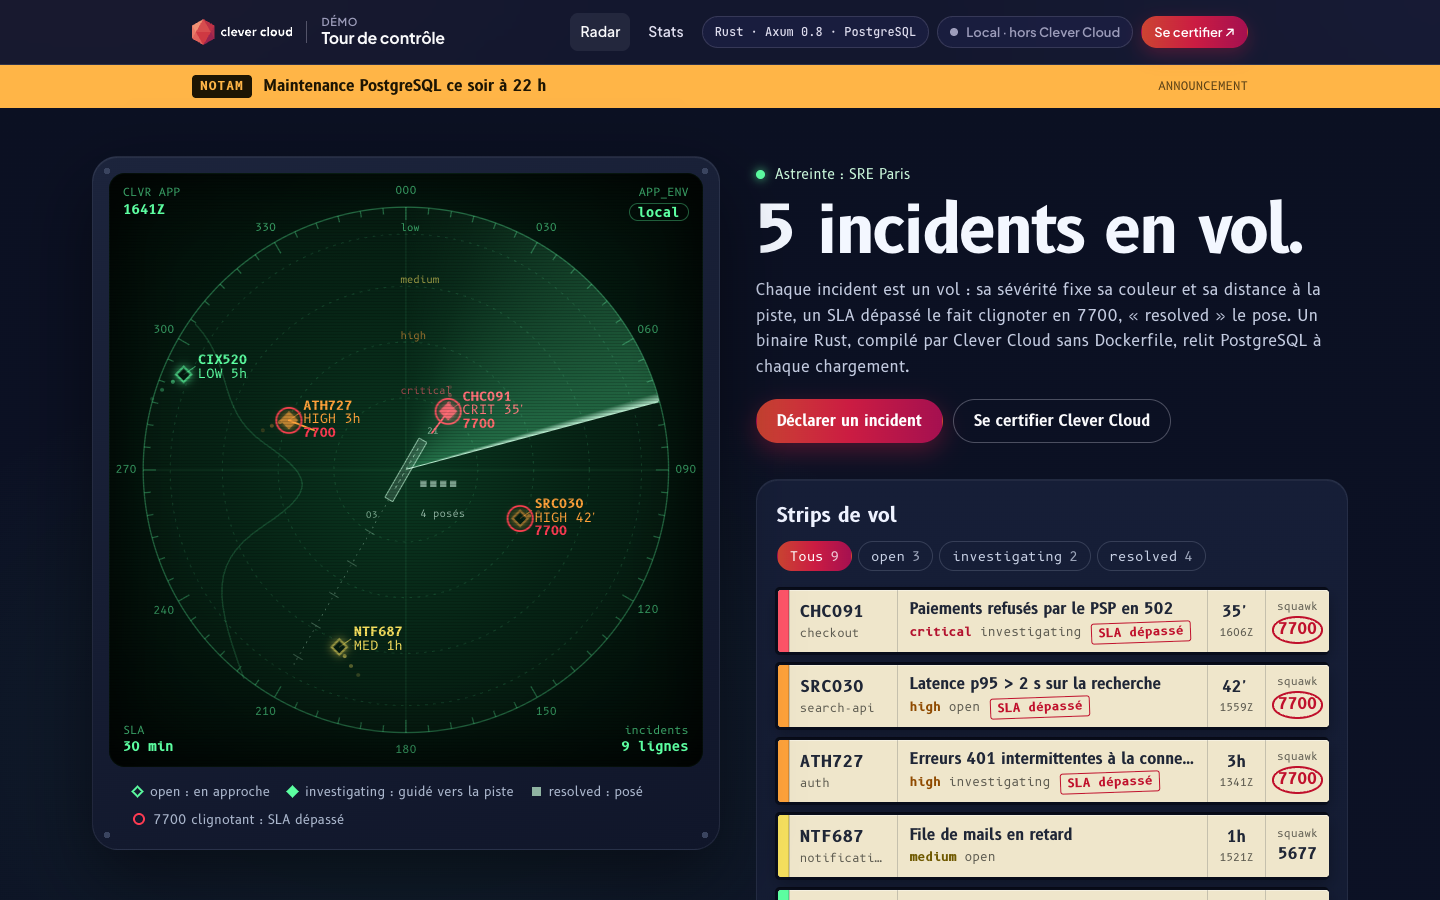
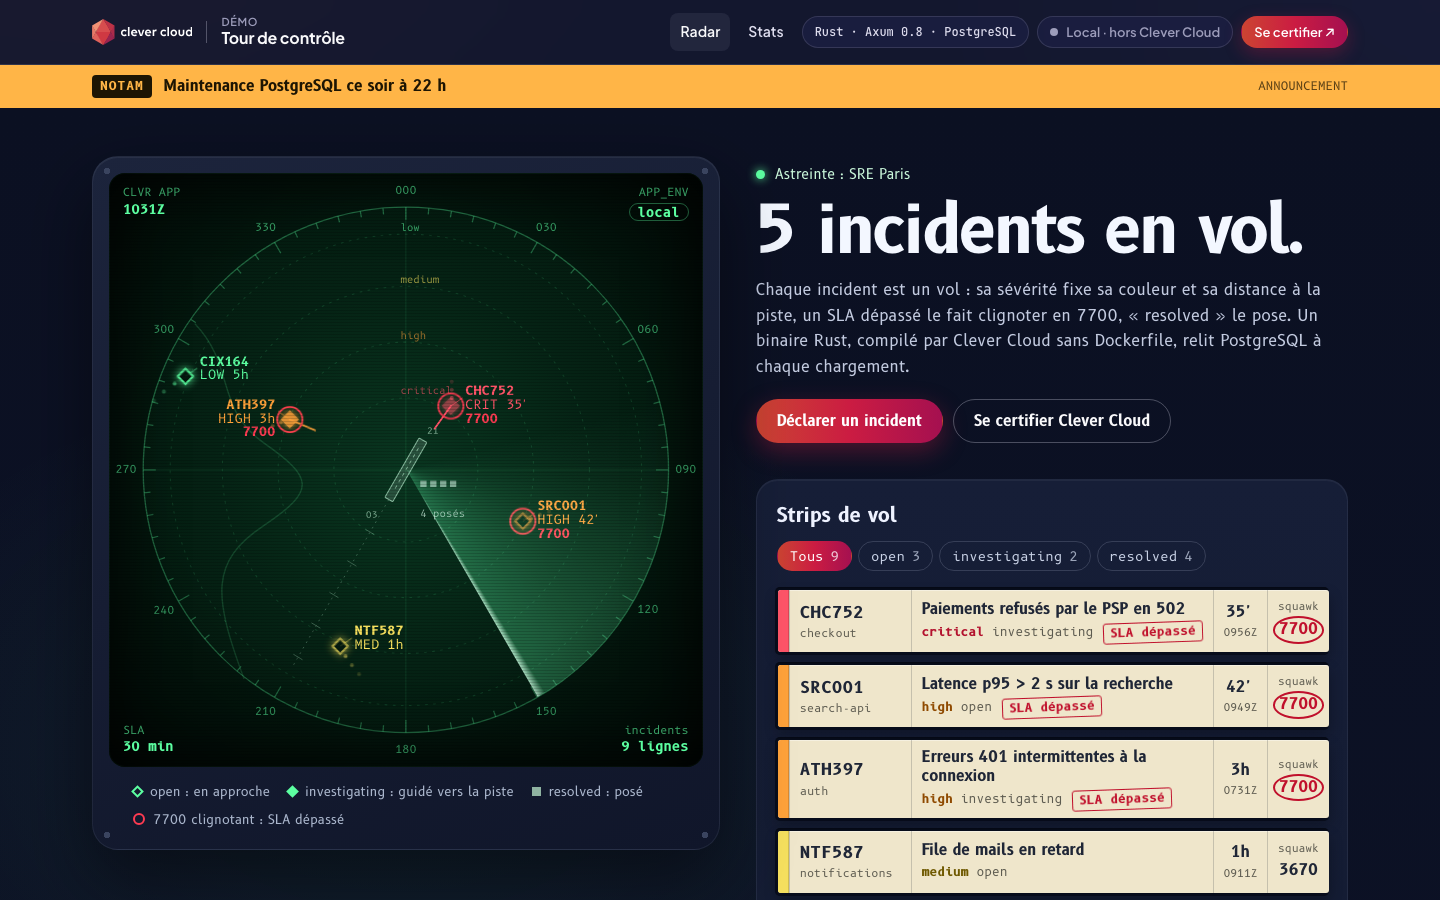
Visual review fixes and a 10-second animated tour

diff --git a/static/tower.css b/static/tower.css
@@ -48,6 +48,8 @@ main { flex: 1; }
 /* Lien certification du pied de page : orange uni (le texte dégradé du kit passe sous 4,5:1) */
 .cc-footer li a.is-cert { color: var(--cc-orange); background: none; -webkit-background-clip: initial; background-clip: initial; -webkit-text-fill-color: currentColor; }
 .cc-footer { margin-top: 0; }
+/* En-tête, NOTAM et pied de page alignés sur la largeur de la salle de contrôle (1320px), pas sur les 1120px du kit */
+.cc-topbar > .cc-container, .notam > .cc-container, .cc-footer > .cc-container { max-width: 1320px; }
 
 /* ---------- NOTAM (ANNOUNCEMENT) ---------- */
 .notam { background: var(--amber); color: #1d1503; font-family: var(--t-font); }
@@ -68,10 +70,13 @@ main { flex: 1; }
 .tower__head { grid-area: head; display: grid; gap: 20px; padding: 6px 0 4px; }
 .tower__team { display: inline-flex; align-items: center; gap: 10px; font-size: 14px; color: var(--phos-text); }
 .tower__team::before { content: ""; width: 9px; height: 9px; border-radius: 50%; background: var(--phos); box-shadow: 0 0 10px var(--phos); }
-.tower__title { margin: 10px 0 0; font-family: var(--t-font); font-weight: 700; font-size: clamp(40px, 4.6vw, 66px); line-height: 1; letter-spacing: -0.03em; color: #f3f7ff; }
+.tower__title { text-wrap: balance; margin: 10px 0 0; font-family: var(--t-font); font-weight: 700; font-size: clamp(40px, 4.6vw, 66px); line-height: 1; letter-spacing: -0.03em; color: #f3f7ff; }
 .tower__title--page { font-size: clamp(32px, 4.4vw, 56px); margin-top: 6px; }
 .tower__lead { margin-top: 14px; max-width: 68ch; font-size: 16px; line-height: 1.6; color: #c3cbe0; }
+.tower__lead .cc-kbd { white-space: nowrap; }
 .tower__cta { display: flex; flex-wrap: wrap; gap: 10px; }
+.lost { display: flex; flex-direction: column; align-items: flex-start; justify-content: center; gap: 4px; min-height: 46vh; }
+.lost .tower__cta { margin-top: 22px; }
 .back { display: inline-flex; gap: 8px; font-size: 14px; font-weight: 700; color: #9fb0cf; }
 .back::before { content: "←"; }
 .back:hover { color: var(--phos); }
@@ -184,7 +189,7 @@ main { flex: 1; }
 .strips { list-style: none; margin: 0; padding: 0; display: grid; gap: 7px; }
 .strips li { padding: 3px 0 3px 3px; border-radius: 5px; background: #0b1124; box-shadow: inset 0 2px 4px rgba(0, 0, 0, 0.5); }
 .strip {
-  display: grid; grid-template-columns: 11px 108px minmax(0, 1fr) 58px 64px; grid-template-areas: "band call main time sq";
+  display: grid; grid-template-columns: 11px 122px minmax(0, 1fr) 54px 62px; grid-template-areas: "band call main time sq";
   min-height: 62px; border-radius: 3px; background: var(--paper); color: var(--ink); font-family: var(--t-mono);
   box-shadow: 0 1px 0 rgba(255, 255, 255, 0.4) inset, 0 6px 14px rgba(0, 0, 0, 0.3);
   transition: transform 0.18s ease;
@@ -192,11 +197,12 @@ main { flex: 1; }
 .strip:hover { transform: translateX(-6px); }
 .strip > * + * { border-left: 1px solid rgba(31, 38, 54, 0.2); }
 .strip__band { grid-area: band; border-radius: 3px 0 0 3px; background: var(--c); box-shadow: inset -1px 0 0 rgba(0, 0, 0, 0.15); }
-.strip__call { grid-area: call; display: flex; flex-direction: column; justify-content: center; padding: 8px 10px; min-width: 0; }
+.strip__call { grid-area: call; display: flex; flex-direction: column; justify-content: center; padding: 8px 8px 8px 10px; min-width: 0; }
 .strip__call b { font-size: 16px; letter-spacing: 0.02em; }
-.strip__call small { font-size: 11.5px; color: var(--ink-2); overflow: hidden; text-overflow: ellipsis; white-space: nowrap; }
-.strip__main { grid-area: main; display: flex; flex-direction: column; justify-content: center; gap: 3px; padding: 8px 12px; min-width: 0; }
-.strip__title { font-family: var(--t-font); font-weight: 700; font-size: 15px; line-height: 1.25; overflow: hidden; text-overflow: ellipsis; white-space: nowrap; }
+.strip__call small { font-size: 11px; color: var(--ink-2); overflow: hidden; text-overflow: ellipsis; white-space: nowrap; }
+.strip__main { grid-area: main; display: flex; flex-direction: column; justify-content: center; gap: 3px; padding: 8px 8px 8px 10px; min-width: 0; }
+/* Titre sur deux lignes au plus : un strip ne coupe pas « connexion » en « conne… » */
+.strip__title { font-family: var(--t-font); font-weight: 700; font-size: 15px; line-height: 1.25; overflow: hidden; display: -webkit-box; -webkit-line-clamp: 2; -webkit-box-orient: vertical; overflow-wrap: anywhere; }
 .strip__state { font-size: 12px; color: var(--ink-2); }
 .strip__sev { color: var(--ci); }
 .strip__sla { display: inline-block; margin-left: 2px; padding: 0 6px; border: 1.5px solid var(--alarm-ink); border-radius: 3px; color: var(--alarm-ink); font-weight: 700; transform: rotate(-2deg); }
@@ -261,7 +267,7 @@ main { flex: 1; }
 .licence__card::before { content: ""; position: absolute; inset: 10px; border-radius: 12px; border: 1px solid rgba(19, 32, 61, 0.18); pointer-events: none; }
 .licence__seal .cc-cert__badge { width: clamp(140px, 17vw, 200px); height: auto; transform: rotate(-8deg); filter: drop-shadow(0 14px 28px rgba(19, 32, 61, 0.35)); }
 .licence__kind { font-size: 13.5px; color: #4b5877; }
-.licence h2 { margin: 8px 0 0; font-size: clamp(26px, 3.2vw, 40px); font-weight: 700; line-height: 1.1; letter-spacing: -0.02em; color: #0f1a33; }
+.licence h2 { text-wrap: balance; margin: 8px 0 0; font-size: clamp(26px, 3.2vw, 40px); font-weight: 700; line-height: 1.1; letter-spacing: -0.02em; color: #0f1a33; }
 .licence__lead { margin: 12px 0 20px; max-width: 60ch; font-size: 16px; line-height: 1.6; color: #34405c; }
 .licence__ratings { list-style: none; margin: 0 0 22px; padding: 0; display: grid; grid-template-columns: repeat(2, minmax(0, 1fr)); gap: 12px; }
 .licence__ratings a { display: block; height: 100%; padding: 12px 14px; border-radius: 10px; border: 1px solid rgba(19, 32, 61, 0.18); background: rgba(255, 255, 255, 0.6); transition: border-color 0.15s ease; }
@@ -275,7 +281,7 @@ main { flex: 1; }
 .licence-mini { display: grid; grid-template-columns: 68px minmax(0, 1fr); gap: 14px; align-items: center; margin-top: 18px; padding: 16px; border-radius: 14px; color: var(--licence-ink); font-family: var(--t-font); background: repeating-radial-gradient(circle at 0% 120%, rgba(40, 70, 150, 0.07) 0 1px, transparent 1px 8px), var(--licence); }
 .licence-mini .cc-cert__badge { width: 68px; height: 68px; transform: rotate(-8deg); }
 .licence-mini small { display: block; font: 400 11.5px var(--t-mono); color: #6a7590; }
-.licence-mini b { display: block; margin-top: 2px; font-size: 15px; line-height: 1.3; color: #0f1a33; }
+.licence-mini b { text-wrap: balance; display: block; margin-top: 2px; font-size: 15px; line-height: 1.3; color: #0f1a33; }
 .licence-mini b + span { display: block; margin-top: 4px; font-size: 13px; color: #4b5877; }
 .licence-mini:hover b { color: #a51050; }
 
@@ -293,7 +299,7 @@ main { flex: 1; }
 .fstrip__call small { display: block; margin-top: 4px; font-size: 13px; color: var(--ink-2); overflow-wrap: anywhere; }
 .fstrip__main { grid-area: main; padding: 20px 24px; min-width: 0; }
 .fstrip__state { font-size: 13px; color: var(--ink-2); }
-.fstrip h1 { margin: 8px 0 10px; font-family: var(--t-font); font-size: clamp(24px, 3.2vw, 38px); font-weight: 700; line-height: 1.12; letter-spacing: -0.015em; overflow-wrap: anywhere; }
+.fstrip h1 { text-wrap: balance; margin: 8px 0 10px; font-family: var(--t-font); font-size: clamp(24px, 3.2vw, 38px); font-weight: 700; line-height: 1.12; letter-spacing: -0.015em; overflow-wrap: anywhere; }
 .fstrip__desc { max-width: 66ch; font-family: var(--t-font); font-size: 16px; line-height: 1.6; color: #3a4052; white-space: pre-wrap; overflow-wrap: anywhere; }
 .fstrip__desc.is-empty { color: var(--ink-2); font-style: italic; }
 .fstrip__cells { grid-area: cells; margin: 0; display: grid; grid-template-rows: 1fr 1fr; }
@@ -361,7 +367,9 @@ main { flex: 1; }
 }
 .blank textarea { resize: vertical; min-height: 110px; border: 1px solid rgba(31, 38, 54, 0.3); border-radius: 4px; padding: 10px; background: rgba(255, 255, 255, 0.35); line-height: 1.5; }
 .blank input::placeholder, .blank textarea::placeholder { color: #8a8574; }
-.blank input:focus-visible, .blank textarea:focus-visible { outline: 2px solid #a51050; outline-offset: 2px; }
+/* Champ actif : la ligne pointillée devient un trait plein, sans cadre rouge qui se lirait comme une erreur */
+.blank input[type="text"]:focus-visible { outline: none; border-bottom: 2px solid var(--ink); background: rgba(255, 255, 255, 0.4); }
+.blank textarea:focus-visible { outline: 2px solid var(--ink); outline-offset: 1px; }
 .blank__sev { margin: 0; padding: 0; border: 0; min-width: 0; }
 .blank__sev legend { padding: 0; margin-bottom: 8px; }
 .blank__sevopts { position: relative; display: grid; grid-template-columns: repeat(4, minmax(0, 1fr)); gap: 8px; }
@@ -376,7 +384,7 @@ main { flex: 1; }
 .blank__actions .cc-btn:not(.cc-btn--gradient) { color: var(--ink); border-color: rgba(31, 38, 54, 0.4); }
 
 /* ---------- Stats : bilan du trafic ---------- */
-.traffic { display: grid; grid-template-columns: repeat(2, minmax(0, 1fr)); gap: clamp(20px, 2.6vw, 36px); margin-top: clamp(20px, 3vw, 32px); }
+.traffic { display: grid; grid-template-columns: minmax(0, 1.25fr) minmax(0, 1fr); gap: clamp(20px, 2.6vw, 36px); margin-top: clamp(20px, 3vw, 32px); }
 .meter { padding: 20px 22px; border-radius: 18px; background: #050c16; border: 1px solid rgba(92, 255, 161, 0.2); }
 .meter h2 { font-size: 18px; font-weight: 700; color: var(--phos); }
 .meter ul { list-style: none; margin: 16px 0 0; padding: 0; display: grid; gap: 14px; }
@@ -416,6 +424,12 @@ main { flex: 1; }
   .tower__room .tower__lead { grid-area: lead; margin: 0; }
   .tower__cta { grid-area: cta; }
   .notam__inner code { display: none; }
+  /* En-tête sur deux rangs : le voyant d'environnement se réduit à un mot, « Se certifier » reste à droite */
+  .cc-topbar__nav .cc-pill--muted, .cc-topbar__nav .cc-pill--live { font-size: 0; gap: 0; }
+  .cc-topbar__nav .cc-pill--muted::after { content: "Local"; font-size: 13px; margin-left: 8px; }
+  .cc-topbar__nav .cc-pill--live::after { content: "Live"; font-size: 13px; margin-left: 8px; }
+  .cc-topbar__nav .cc-pill--gradient { margin-left: auto; }
+  .bay__filters a { padding-block: 9px; }
   .tower__lead { font-size: 15.5px; }
   .scope { padding: 10px; border-radius: 20px; }
   .scope__readouts { inset: 10px; font-size: 9.5px; }
@@ -432,16 +446,16 @@ main { flex: 1; }
   .bay { padding: 12px; }
   .strip { grid-template-columns: 9px minmax(0, 1fr) 50px 58px; grid-template-areas: "band call time sq" "band main main main"; }
   .strip__main { border-left: 0; border-top: 1px solid rgba(31, 38, 54, 0.2); }
-  .strip__title { white-space: normal; display: -webkit-box; -webkit-line-clamp: 2; -webkit-box-orient: vertical; }
   .fstrip { grid-template-columns: 10px minmax(0, 1fr); grid-template-areas: "band call" "band cells" "band main"; }
   .fstrip__cells { border-left: 0; border-top: 1px solid rgba(31, 38, 54, 0.2); }
   .fstrip__main { padding: 16px; }
   .approach { padding: 16px; }
   .approach__scene { height: 150px; }
   .approach__plane { width: 48px; height: 18px; }
-  .approach__steps button { padding: 9px 8px; }
+  .approach__steps { gap: 6px; }
+  .approach__steps button { padding: 9px 6px; }
   .approach__steps span { font-size: 11.5px; }
-  .approach__steps b { font-size: 11px; overflow-wrap: anywhere; }
+  .approach__steps b { font-size: 10.5px; letter-spacing: -0.02em; }
   .blank__row, .licence__ratings { grid-template-columns: 1fr; }
   .blank__sevopts { grid-template-columns: repeat(2, minmax(0, 1fr)); }
   .meter li { grid-template-columns: 120px minmax(0, 1fr) 34px; gap: 10px; }

diff --git a/templates/not_found.html b/templates/not_found.html
@@ -1,0 +1,17 @@
+{% extends "base.html" %}
+
+{% block title %}Vol inconnu{% endblock %}
+
+{% block content %}
+<div class="tower">
+  <div class="cc-container tower__wrap lost">
+    <p class="tower__team">Squawk introuvable</p>
+    <h1 class="tower__title tower__title--page">Aucun vol à cet indicatif.</h1>
+    <p class="tower__lead">PostgreSQL ne connaît pas cet incident : l'identifiant ne correspond à aucune ligne de la table <span class="cc-kbd">incidents</span>.</p>
+    <div class="tower__cta">
+      <a class="cc-btn cc-btn--gradient" href="/">Retour au radar</a>
+      <a class="cc-btn" href="/incidents/new">Déclarer un incident</a>
+    </div>
+  </div>
+</div>
+{% endblock %}

diff --git a/src/handlers.rs b/src/handlers.rs
@@ -50,7 +50,14 @@ impl IntoResponse for AppError {
                 tracing::error!("Database error: {e}");
                 (StatusCode::INTERNAL_SERVER_ERROR, "Internal server error").into_response()
             }
-            AppError::NotFound => (StatusCode::NOT_FOUND, "Incident not found").into_response(),
+            // Same status as before, with the tower around it instead of a bare line of text.
+            AppError::NotFound => (
+                StatusCode::NOT_FOUND,
+                HtmlTemplate(NotFoundTemplate {
+                    cc: Platform::from_env(),
+                }),
+            )
+                .into_response(),
             AppError::BadRequest(msg) => (StatusCode::BAD_REQUEST, msg).into_response(),
         }
     }
@@ -107,6 +114,12 @@ struct StatsTemplate {
     stats: Stats,
     queries: Vec<QueryLog>,
     db: DbInfo,
+    cc: Platform,
+}
+
+#[derive(Template)]
+#[template(path = "not_found.html")]
+struct NotFoundTemplate {
     cc: Platform,
 }
 

diff --git a/src/models.rs b/src/models.rs
@@ -224,7 +224,15 @@ impl Radar {
                 } else {
                     (x, y)
                 };
-                let left = f64::from(x) > c + 150.0;
+                // The data block sits on the right, or on the left near the right edge.
+                // An investigating plot carries a heading vector towards the runway: its block
+                // goes on the side away from the centre, so the vector never strikes it through.
+                let dx = f64::from(x) - c;
+                let left = if inc.status == "investigating" && dx.abs() <= 200.0 {
+                    dx < 0.0
+                } else {
+                    dx > 150.0
+                };
                 let lx = if left { x - 16 } else { x + 16 };
                 // Near the bottom of the scope the data block sits above the plot.
                 let low = f64::from(y) > c + 210.0;

diff --git a/CLAUDE.md b/CLAUDE.md
@@ -85,7 +85,8 @@ Avant un tournage : `./scripts/reset-demo.sh` recharge la base de l'app visée p
 - Chaque struct `#[derive(Template)]` reçoit `cc: Platform` (`models::Platform::from_env()`) ; dans les templates : `{% if cc.live %}`, `{{ cc.app_name }}`.
 - Couleurs : `--sev-*` (écran) et `--ink-*` (encre sur papier) dans `tower.css`, appliquées par `is-<severity>` (valeurs validées côté serveur). CSP sans script : tout reste en CSS (`prefers-reduced-motion` coupé par le kit).
 - Textes du chrome en français (espaces insécables avant `:` et dans « … ») ; libellés techniques (`open`, `critical`…) en anglais.
-- Captures du README : `docs/screenshot-desktop.png` (1440×900), `docs/screenshot-incidents.png` (détail, 1440×900), `docs/screenshot-phone.png` (390×844 @2x), prises avec Playwright, animations figées au même instant.
+- Captures du README : `docs/screenshot-desktop.png` (1440×900), `docs/screenshot-incidents.png` (détail, 1440×900), `docs/screenshot-phone.png` (390×844 @2x), prises avec Playwright, animations figées au même instant. Animation `docs/tour.gif` (800×500, 10 s, moins de 1,5 Mo exigé par `scripts/check-catalogue.sh`) : déclaration d'un incident, apparition sur le radar, atterrissage en `resolved`.
+- En-tête, NOTAM et pied de page sont élargis à 1320px dans `tower.css` pour s'aligner sur la salle de contrôle. Sur le radar, le bloc d'un plot `investigating` se place du côté opposé à la piste (son vecteur ne le barre pas).
 
 ---
 
@@ -96,7 +97,7 @@ src/main.rs        → entry point, config Axum, routes dans app() (+ /cc-brand.
 src/handlers.rs    → handlers HTTP (CRUD incidents), requêtes chronométrées pour la console, structs de templates
 src/models.rs      → Incident (indicatif, squawk, SLA), Radar (géométrie des plots), QueryLog, DbInfo, Platform
 src/db.rs          → SQL en constantes, requêtes SQLx, version PostgreSQL, état du pool
-templates/         → templates HTML Askama (base, index, new, detail, stats)
+templates/         → templates HTML Askama (base, index, new, detail, stats, not_found : page 404 d'un incident inconnu, dans le cadre de la tour)
 templates/partials/ → radar, console-log, atis, cc-platform, cert (licence), cert-mini, SVG logo et badge
 static/cc-brand.css → Clever Brand Kit (copie, ne pas modifier)
 static/tower.css   → univers Tour de contrôle (tous les styles propres à la démo)

diff --git a/README.md b/README.md
@@ -2,6 +2,8 @@
 
 > An approach radar for on-call incidents. Every open incident is an aircraft on a green phosphor scope: its severity sets its colour and its distance to the runway, a critical or high incident still open past its SLA blinks and squawks 7700, and "resolved" lands it on the runway. Beside the scope, each incident has its paper flight strip; under it, the controller's console prints the SQLx queries that drew the page, word for word as sent to the **PostgreSQL add-on**, with their bound values, row counts and timings. The app is a single Axum + SQLx binary that the **native Rust runtime** compiles with `cargo build --release --locked` on a dedicated build instance, with no Dockerfile; the schema is migrated at startup and the deployment is validated by a health check that queries PostgreSQL.
 
+![Animation, run locally: an incident is declared on a blank flight strip, appears on the radar as a sixth aircraft, then "resolved" lands it on the approach profile](docs/tour.gif)
+
 ![Control Tower run locally: five incidents in flight on the radar, three of them squawking 7700 past their SLA, the flight strips and a NOTAM banner set by ANNOUNCEMENT](docs/screenshot-desktop.png)
 
 ![An incident run locally: its flight strip with squawk 7700, the approach profile whose buttons change the status, and the controller console with the SELECT played and the UPDATE sent on click](docs/screenshot-incidents.png)
